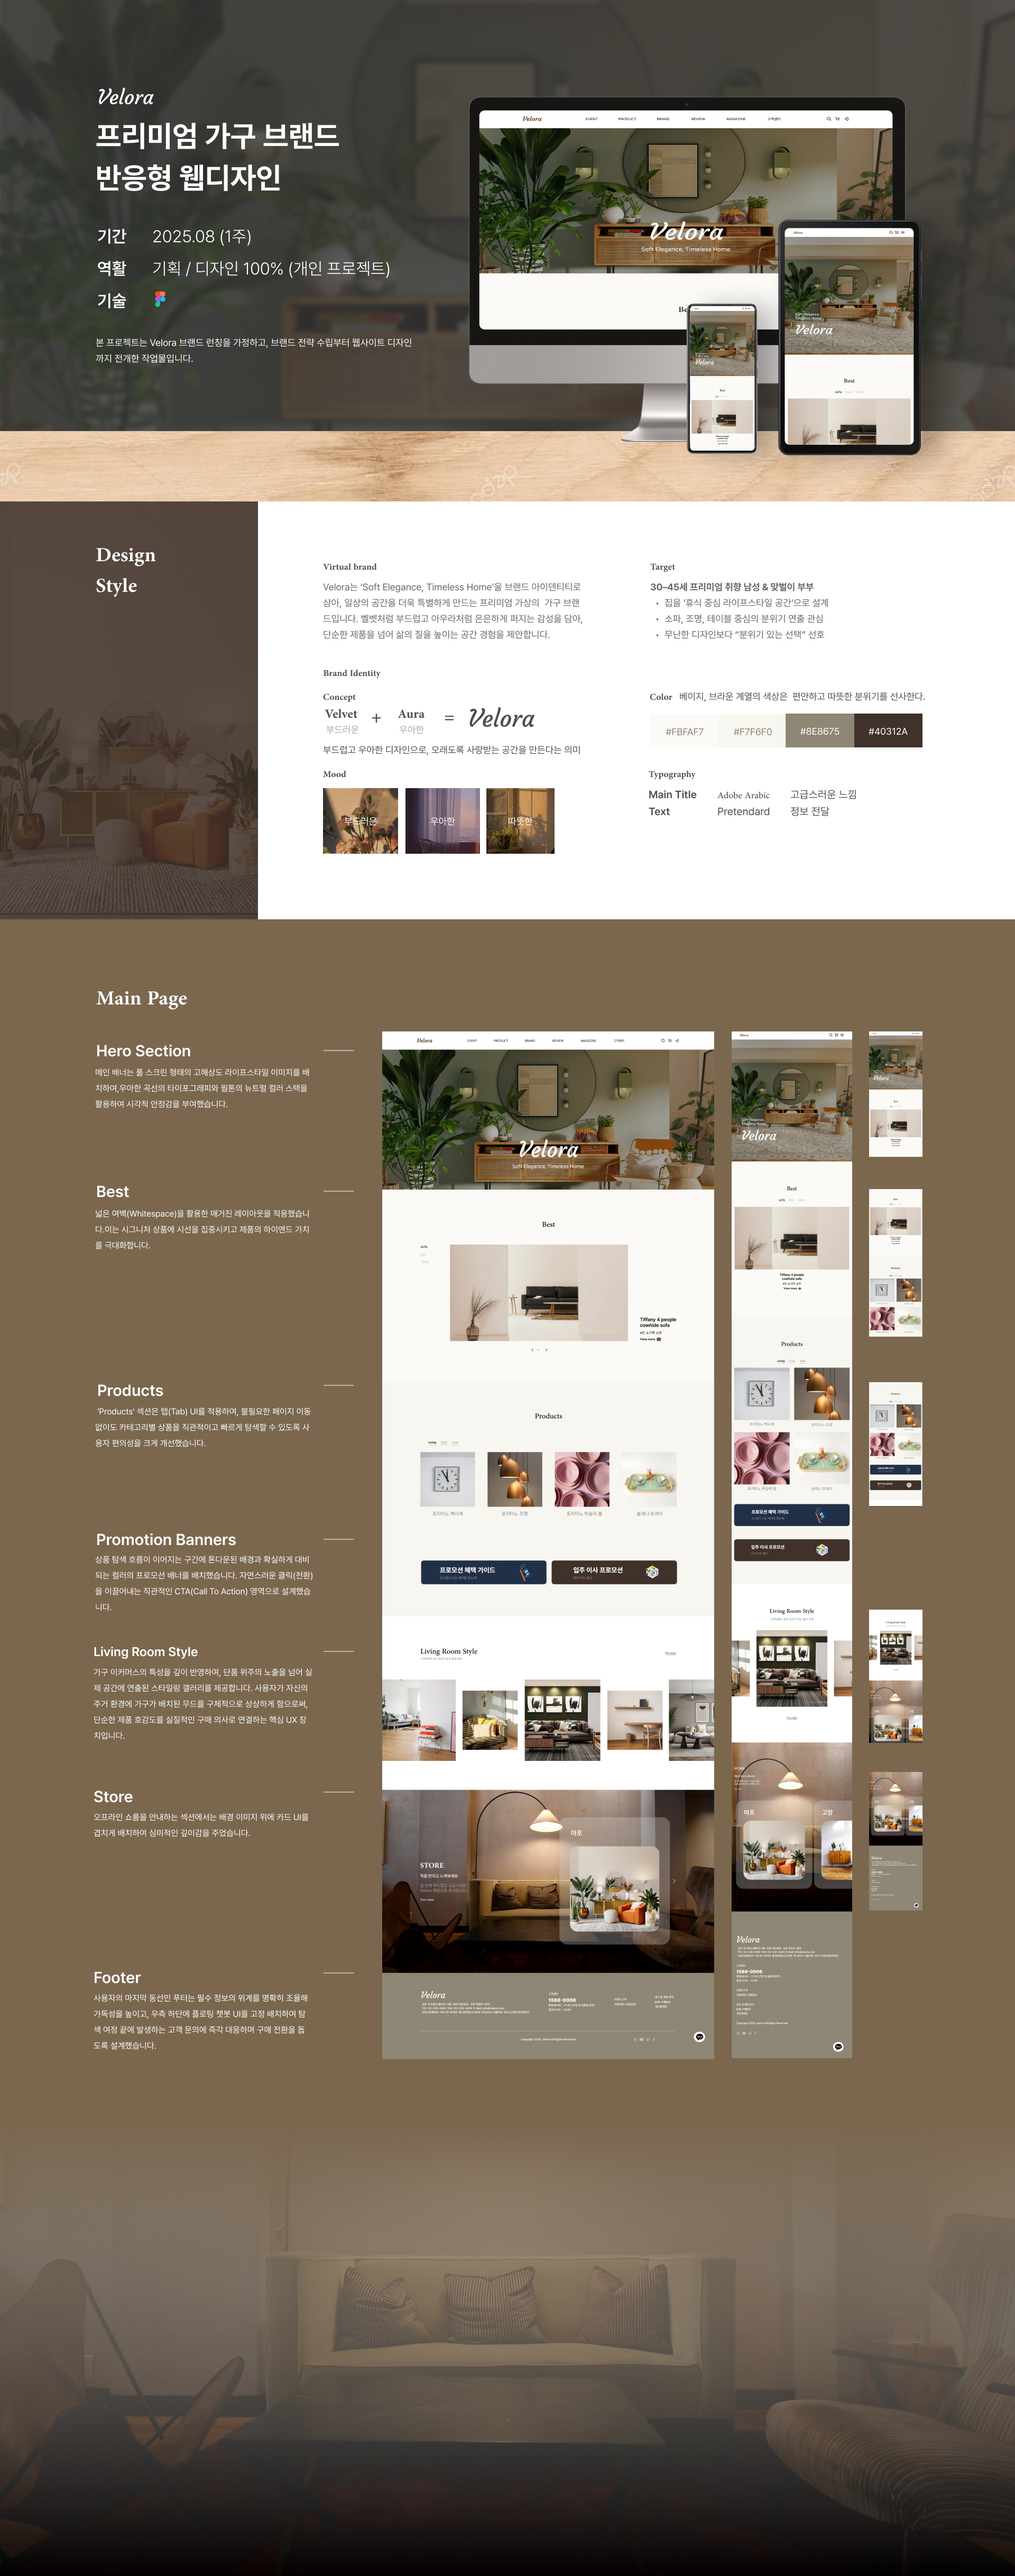
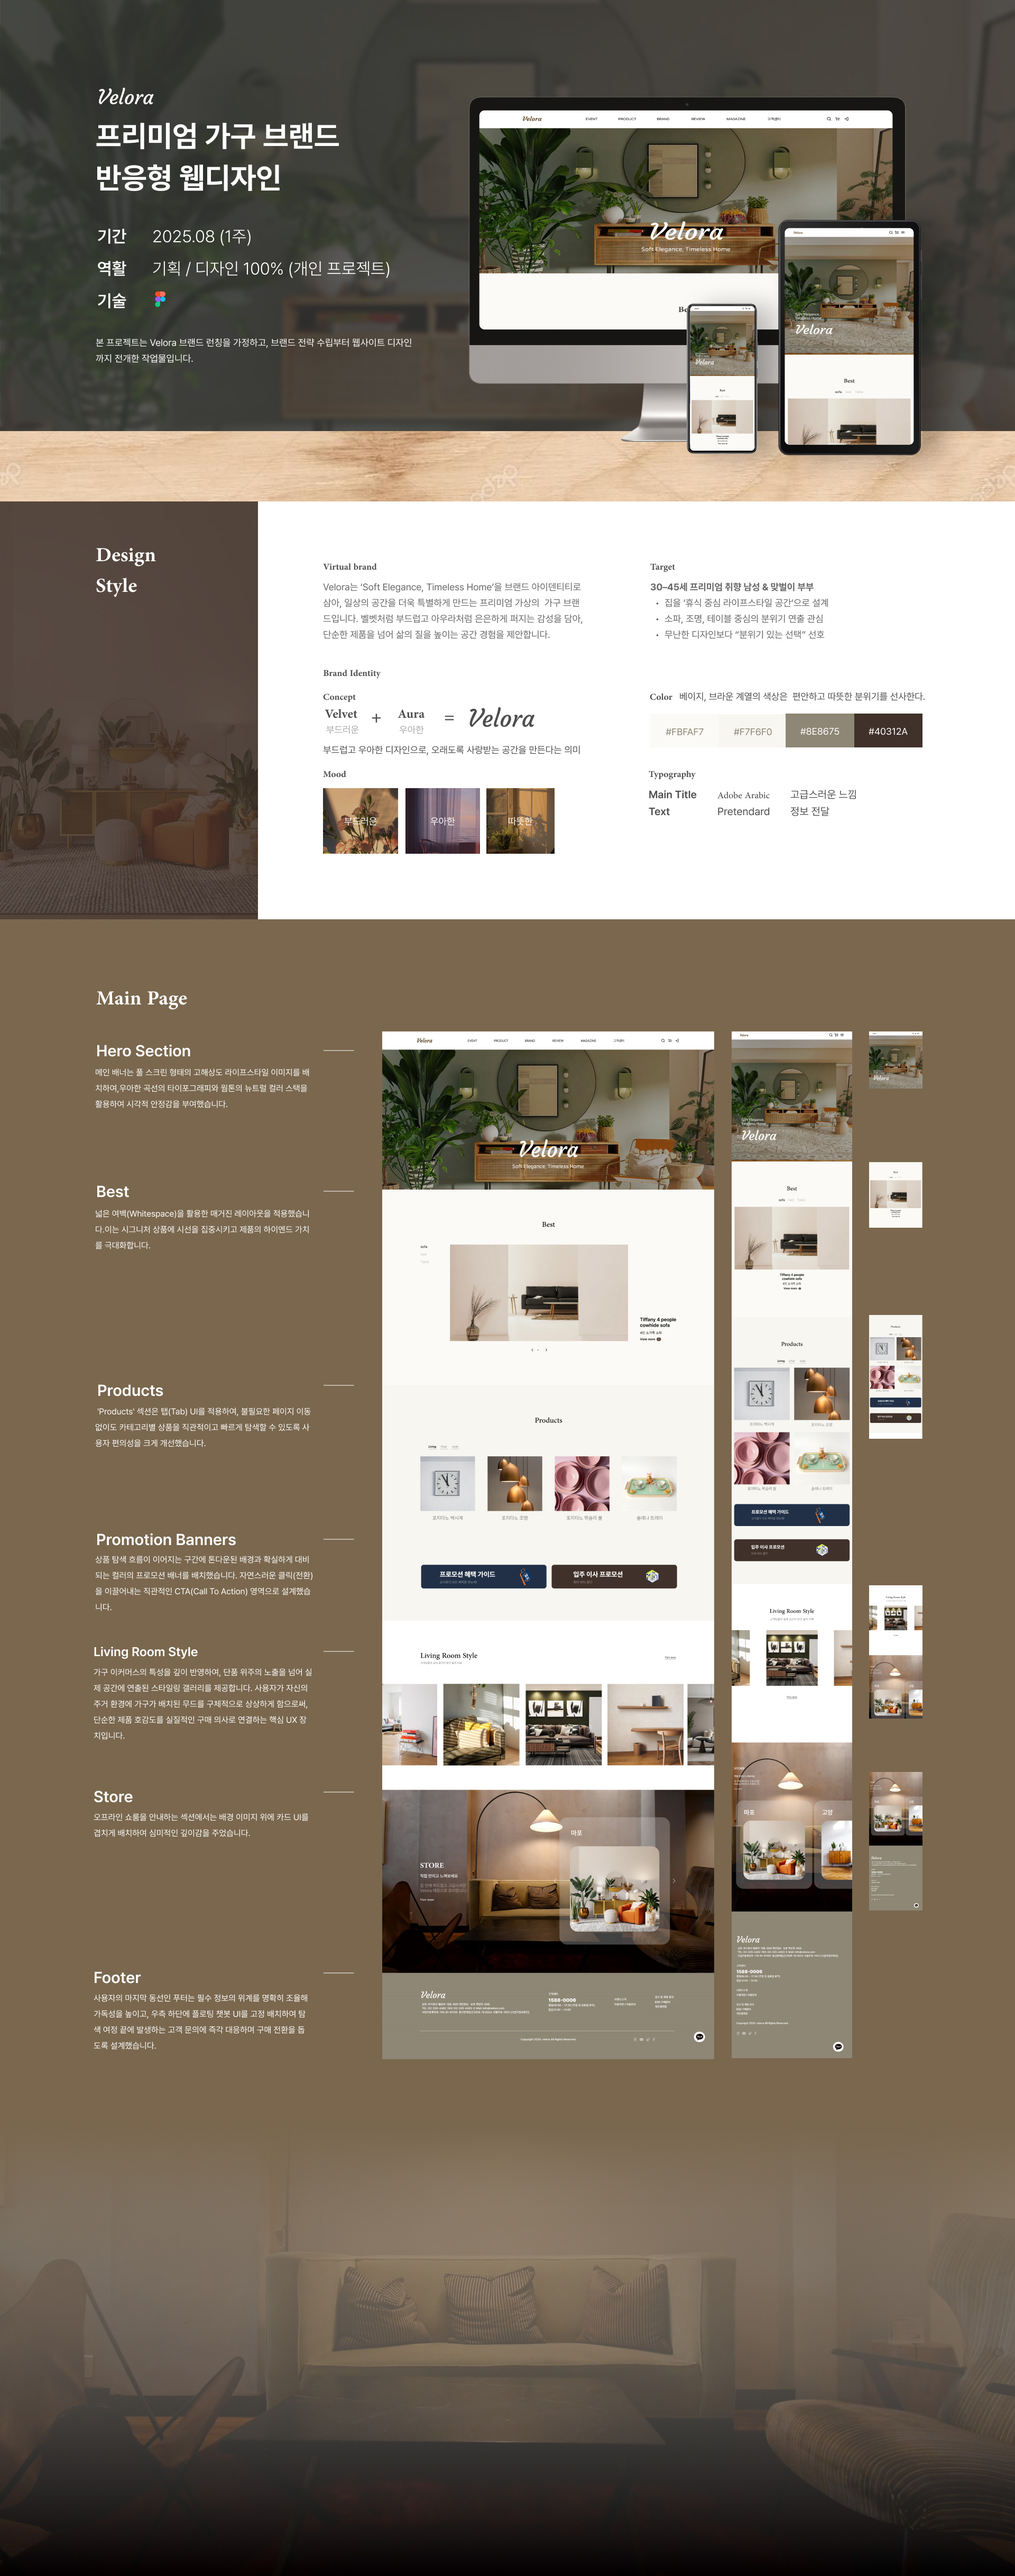
dsa관리자페이지 프로젝트 주석

Changed region(s): [[0.375, 0.5618, 0.7188, 0.6867], [0.7188, 0.4057, 0.9062, 0.6867]]

diff --git a/index.html b/index.html
@@ -23,20 +23,20 @@
     <section class="portfolio" id="portfolio">
         <div class="portfolio-list">
           <div class="portfolio-item item8" onclick="window.open('./DSA/dsa-process-cont.html')">
-              <p>데이터사이언스아카데미 콘텐츠 디자인<br>2023.08-2026.03</p>
-            </div>
-          <div class="portfolio-item item7" onclick="window.open('./DSA/dsa-process.html')">
+              <p>데이터사이언스아카데미<br>웹디자이너 2023.08-2026.03</p>
+          </div>
+          <!-- <div class="portfolio-item item7" onclick="window.open('./DSA/dsa-process.html')">
               <p>데이터사이언스아카데미 관리자페이지<br>2024.11</p>
-            </div>
+            </div> -->
             <div class="portfolio-item item9" onclick="window.open('./Mardi/Mardi-process.html')">
-              <p>Mardi Mercredi 콘텐츠 디자인 챌린지 <br>스터디 기반 개인 프로젝트 2026.02</p>
+              <p>Mardi Mercredi 콘텐츠 디자인<br>스터디 개인 프로젝트 2026.02</p>
             </div>
            <div class="portfolio-item item2" onclick="window.open('./Velora/velora-process.html')">
-              <p>가상의 가구브랜드 웹디자인 <br>2025.08</p>
+              <p>가상의 가구브랜드<br>웹디자인 2025.08</p>
             </div>
-            <!-- <div class="portfolio-item item5" onclick="window.open('./fittory/fittory-process.html')">
-              <p>건강식품 이커머스 웹디자인 <br>2025.10</p>
-            </div> -->
+            <div class="portfolio-item item5" onclick="window.open('./fittory/fittory-process.html')">
+              <p>건강식품 이커머스 웹디자인<br>사이드프로젝트 2025.10</p>
+            </div>
             <!-- <div class="portfolio-item item8" onclick="window.open('./Medicare/medicare-process.html')">
               <p>병원 예약 & 건강관리 UIUX 앱디자인<br>2026.05</p>
             </div> -->

diff --git a/Velora/velora-process.html b/Velora/velora-process.html
@@ -4,7 +4,7 @@
 <head>
   <meta charset="UTF-8" />
   <meta name="viewport" content="width=device-width, initial-scale=1.0" />
-  <title>velora process </title>
+  <title>velora contentdesign </title>
   <style>
     * {
       margin: 0;
@@ -69,13 +69,14 @@
 <body>
   <main>
     <figure>
-      <img src="./img/process.jpg" alt="velora-process" />
+      <img src="./img/process.jpg" alt="velora-main" />
+      <img src="./img/eventpage.jpg" alt="velora-eventpage" />
     </figure>
   </main>
 
   <!-- 프로세스 -->
-     <a href="./eventpage.html" target="_blank" class="eventpage">프로모션 페이지</a>
-  <a href="./index.html" target="_blank" class="portfolio-Design">메인 페이지</a>
+     <!-- <a href="./eventpage.html" target="_blank" class="eventpage">프로모션 페이지</a>
+  <a href="./index.html" target="_blank" class="portfolio-Design">메인 페이지</a> -->
 </body>
 
 </html>

diff --git a/Velora/index.html b/Velora/index.html
@@ -5,7 +5,7 @@
 <head>
   <meta charset="UTF-8" />
   <meta name="viewport" content="width=device-width, initial-scale=1.0" />
-  <title>velora 메인 페이지 </title>
+  <title>velora 메인 </title>
   <style>
     * {
       margin: 0;
@@ -28,7 +28,7 @@
 <body>
   <main>
     <figure>
-      <img src="./img/main.jpg" alt="velora-design" />
+      <img src="./img/main.jpg" alt="velora-mainpage" />
     </figure>
   </main>
 </body>
